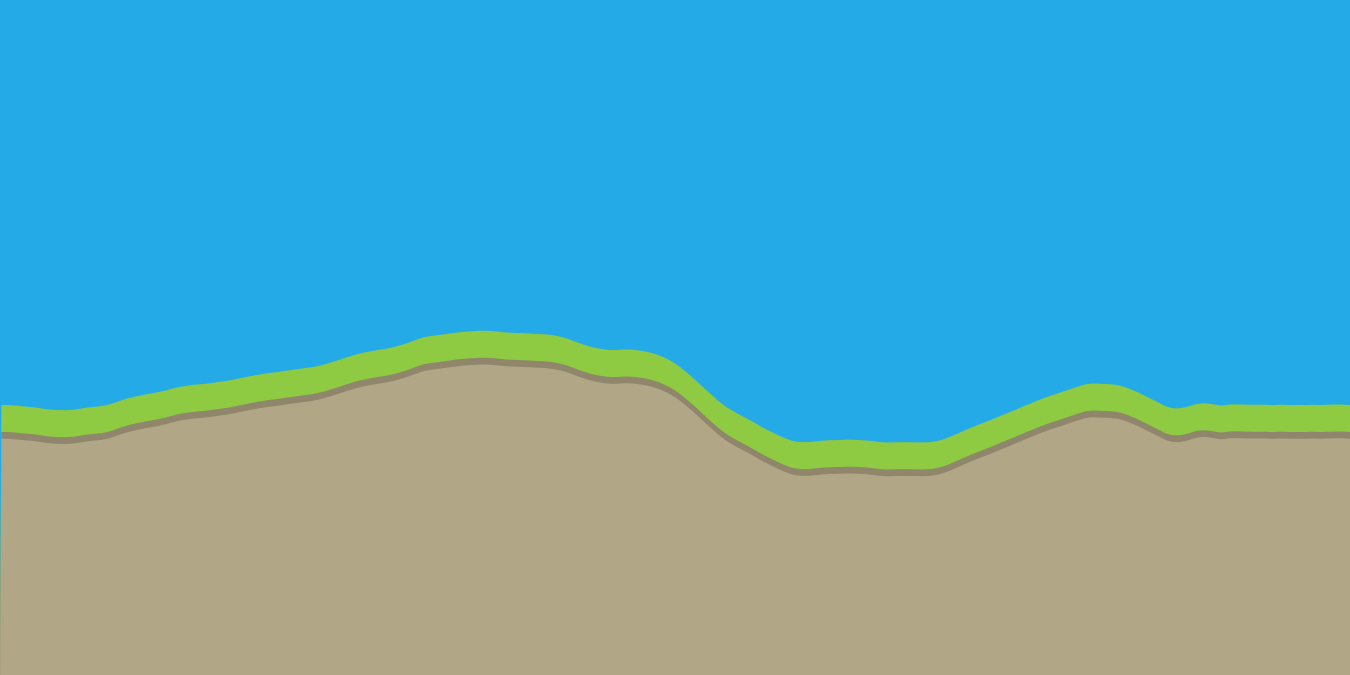
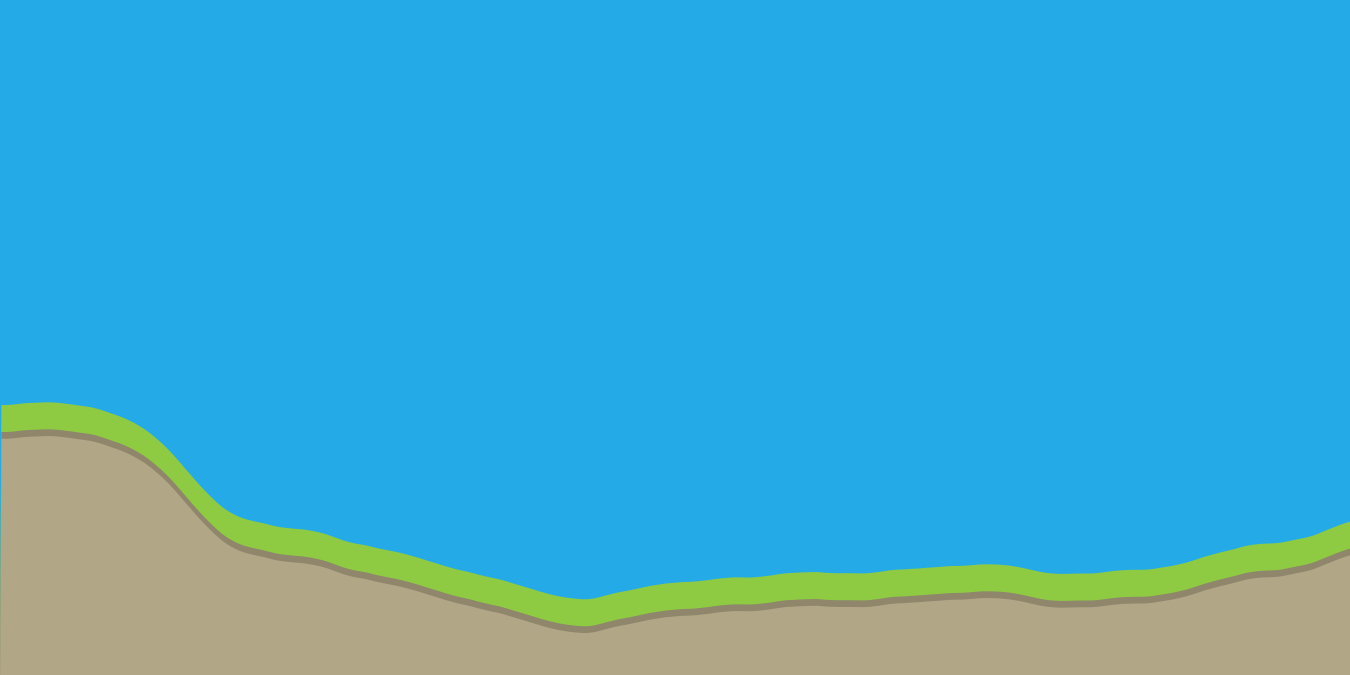
explodeterrain_avancé

Changed region(s): [[0.0, 0.4667, 1.0, 0.9333]]

diff --git a/src/Controleur/Ground.java b/src/Controleur/Ground.java
@@ -128,12 +128,17 @@ public class Ground {
     int levelmax=actualcolumn.size()-1;
     double hmax=actualcolumn.get(levelmax);
    
-    Integer ncolimp = (int) Math.floor(Ground.number*radius);   // g.n*radius*2/2 parce que radius = diametre et 2 longueur du terrain
+    Integer half_ncolimp = (int) Math.floor(Ground.number*radius/Game.lenght);   // g.n*radius*2/2 parce que radius = diametre et 2 longueur du terrain
     				
-    if (y==hmax){
-    	for(int i = ncol - ncolimp; i < 3.14; i++){
-    		double hinit = (Double)Game.terrain.ground_values[ncol+i].ground_column.get(0);    
-    		//Game.terrain.ground_values[ncol+i].ground_column.set(0, y- d*tan(3,14/))
+  
+    	for(int i = (int) Math.max(ncol - half_ncolimp, 0); i < (int) Math.min(ncol + half_ncolimp, Ground.number); i++){
+    		
+    		double cos_alpha = (Math.abs(ncol - i)*Game.lenght/(Ground.number*1.0))/radius;
+    		
+    		double alpha = Math.acos(cos_alpha);
+    		
+    		double hnew = Math.max((Double)Game.terrain.ground_values[i].ground_column.get(0),y - Math.sin(alpha)*radius);
+    		Game.terrain.ground_values[i].ground_column.set(0, hnew);
     		
     	}
     	
@@ -142,7 +147,7 @@ public class Ground {
   
     		// set les y des x < radius . les y deviennent ynew = (y - tan (Pi/)*(x-ncol)
     		
-    }
+   
     
     	
     	

diff --git a/src/Controleur/Explosives.java b/src/Controleur/Explosives.java
@@ -22,10 +22,10 @@ public class Explosives extends PhysObj{
         this.display();}
      
         else if(state>1){
-        	 //if (state==2){
-        		// Game.terrain.explode(this.x, this.y, this.radius);
-        		 //state ++;
-             // }
+        	 if (state==2){
+        		Game.terrain.explode(this.x, this.y, this.radius);
+        		 state ++;
+              }
         	double scale=state*0.005;
             StdDraw.setPenColor(ColorLibrary.sky);
                 if (scale<2.0*radius) {
@@ -38,9 +38,9 @@ public class Explosives extends PhysObj{
                     state++;}
                     else state=0; //l'explosion perdure
                 }
-        if (state==0){
-            StdDraw.setPenColor(ColorLibrary.sky);
-            StdDraw.filledCircle(x,y,radius);}
+        //if (state==0){
+            //StdDraw.setPenColor(ColorLibrary.sky);
+           // StdDraw.filledCircle(x,y,radius);}
 
     }
 

diff --git a/src/Controleur/Game.java b/src/Controleur/Game.java
@@ -52,7 +52,9 @@ public class Game {
         thread.start();
 
         while (true){
-            StdDraw.picture(1.0, 0.5, "currentground.png");
+         //   StdDraw.picture(1.0, 0.5, "currentground.png");
+        	StdDraw.clear();
+        	terrain.display();
             nuages.moveAndDisplay();
             Game.deal_with_ammunitions();
 //            banane.moveAndDisplay();
